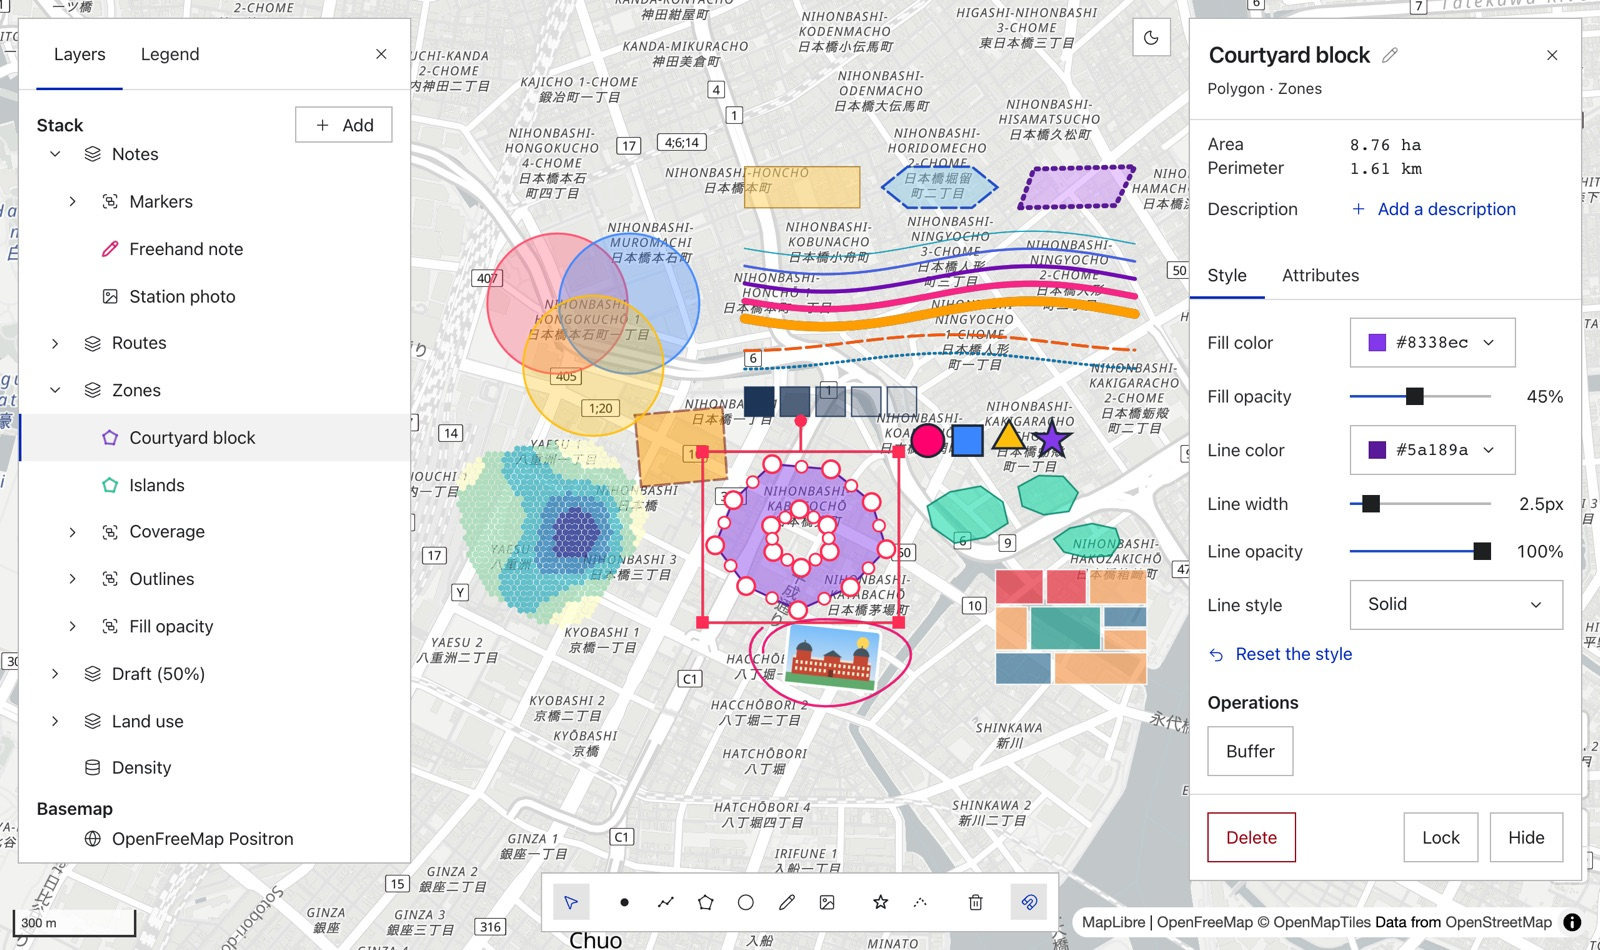
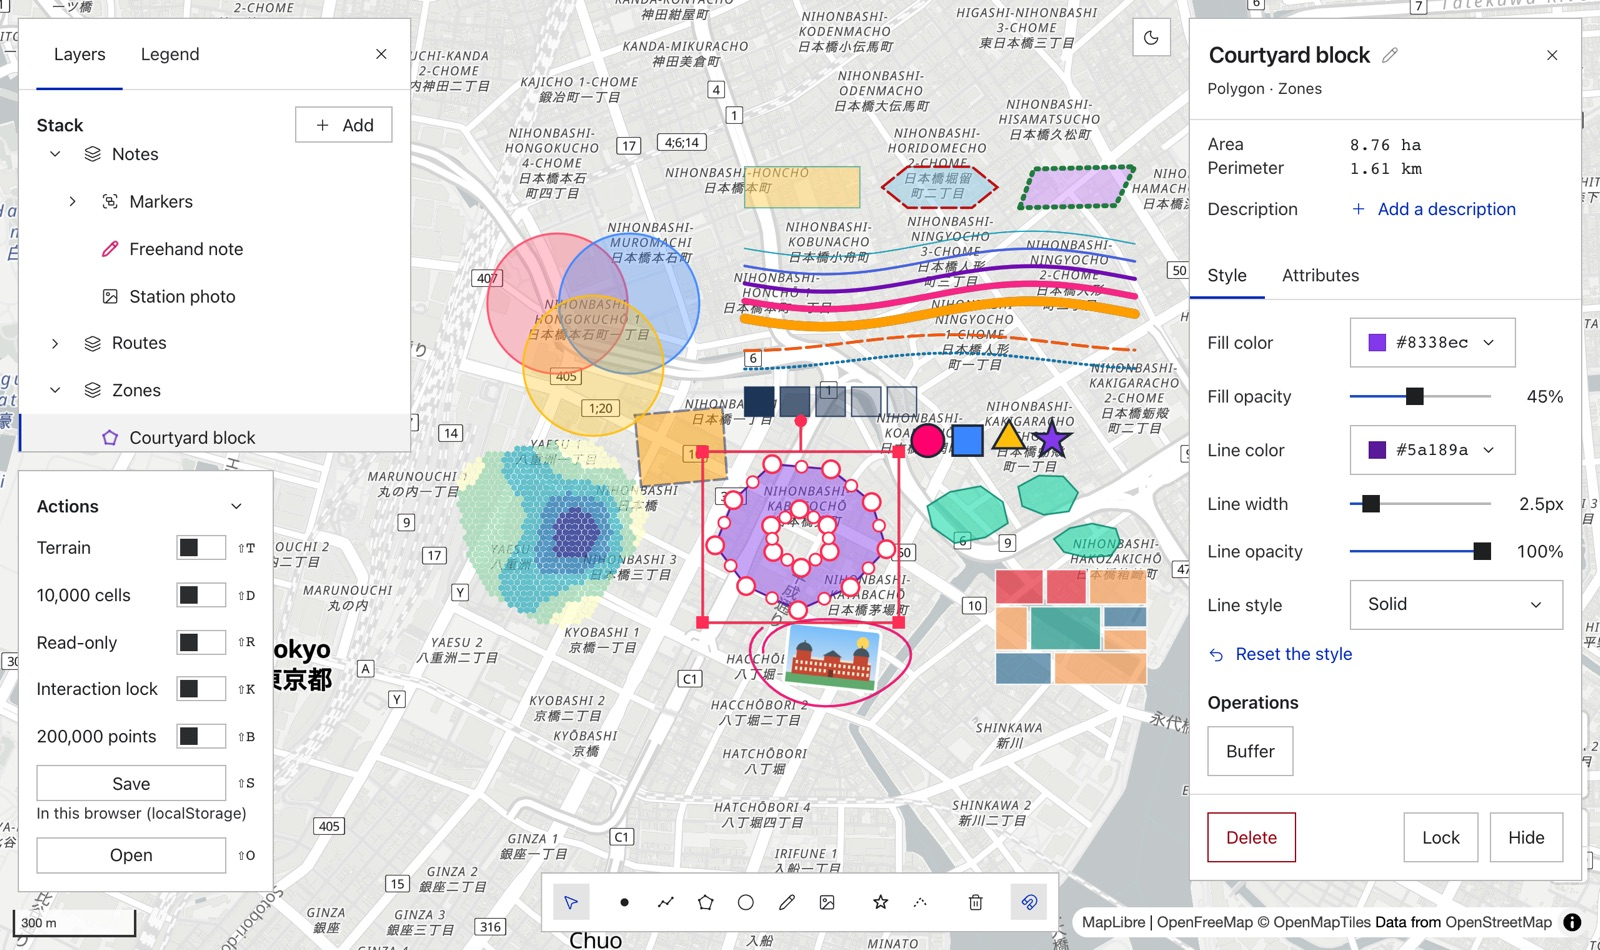
Give the outlined areas of the overview an outline of another hue than their fill

diff --git a/playground/showcase/overview-data.ts b/playground/showcase/overview-data.ts
@@ -125,7 +125,7 @@ const DRAFT_FOOTPRINT: SceneFeature = {
   style: {
     fillColor: '#FF9E00',
     fillOpacity: 1,
-    strokeColor: '#D00000',
+    strokeColor: '#1D4ED8',
     strokeWidth: 3,
     lineStyle: 'dashed',
   },
@@ -156,7 +156,8 @@ const FILL_OPACITY: SceneFeature[] = (
   },
 }));
 
-/** Three areas whose fill and outline differ in color: a solid, a dashed and a dotted outline */
+/** Three areas whose fill and outline are of different hues, which one style layer of the map
+ * cannot do: a solid, a dashed and a dotted outline */
 const OUTLINES: SceneFeature[] = [
   {
     id: 'outline-solid',
@@ -169,7 +170,7 @@ const OUTLINES: SceneFeature[] = [
     style: {
       fillColor: '#FFD166',
       fillOpacity: 0.55,
-      strokeColor: '#9A6700',
+      strokeColor: '#2A9D8F',
       strokeWidth: 1,
       lineStyle: 'solid',
     },
@@ -190,7 +191,7 @@ const OUTLINES: SceneFeature[] = [
     style: {
       fillColor: '#8ECAE6',
       fillOpacity: 0.5,
-      strokeColor: '#1D4ED8',
+      strokeColor: '#D00000',
       strokeWidth: 3,
       lineStyle: 'dashed',
     },
@@ -211,7 +212,7 @@ const OUTLINES: SceneFeature[] = [
     style: {
       fillColor: '#C77DFF',
       fillOpacity: 0.4,
-      strokeColor: '#5A189A',
+      strokeColor: '#1B7F3B',
       strokeWidth: 6,
       lineStyle: 'dotted',
     },
